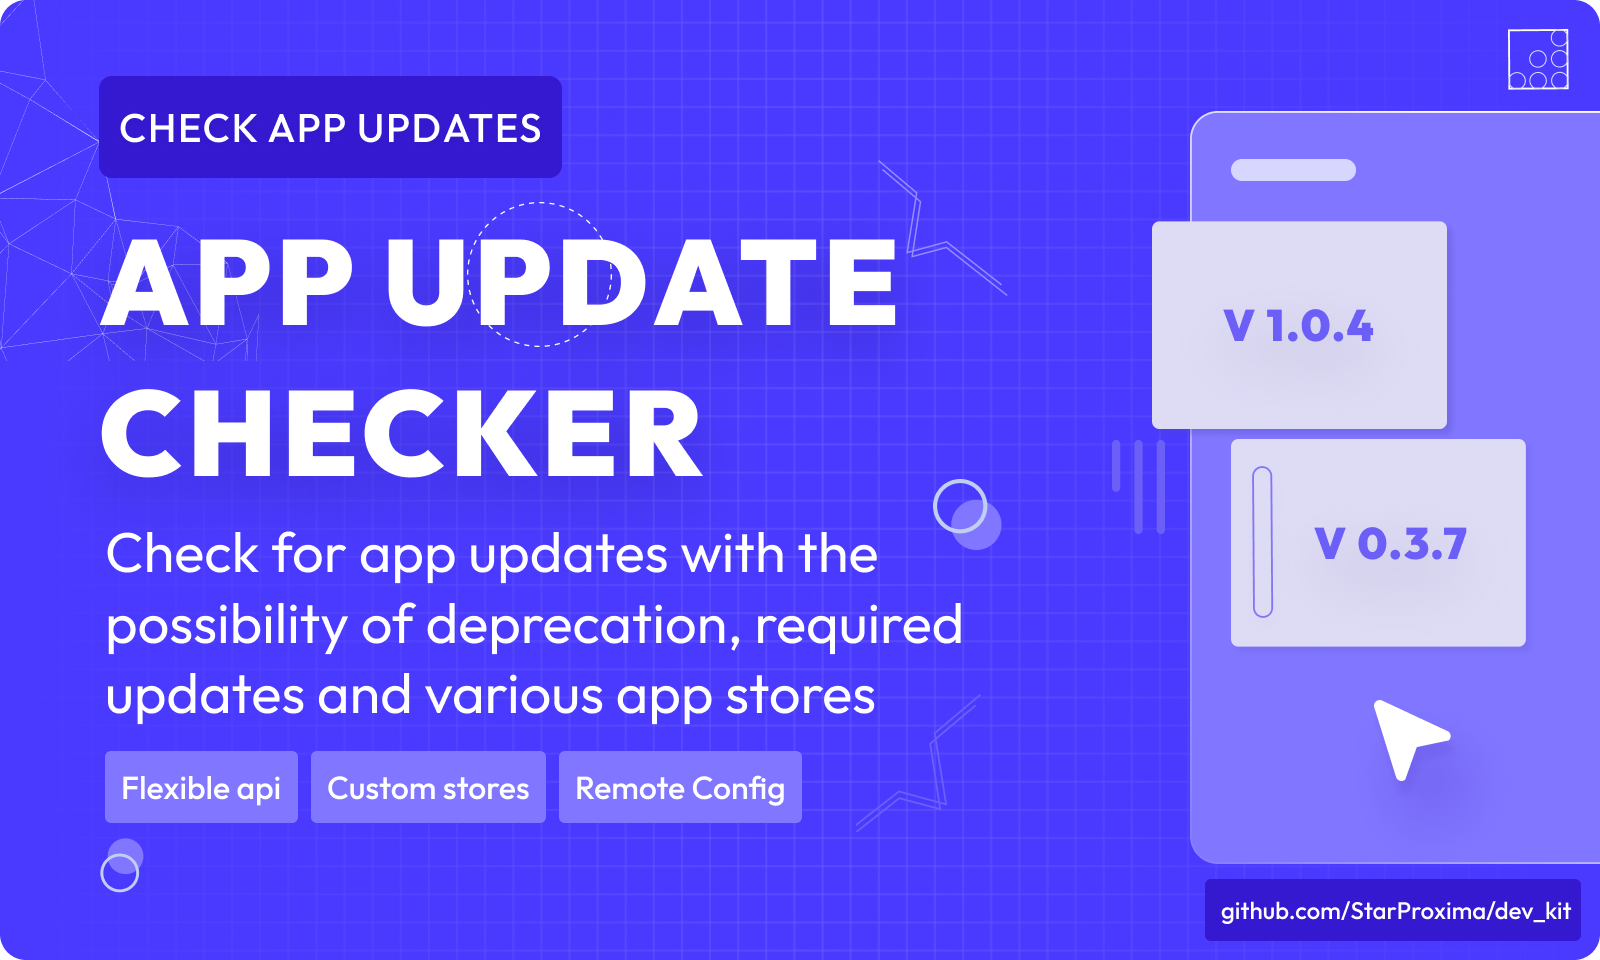
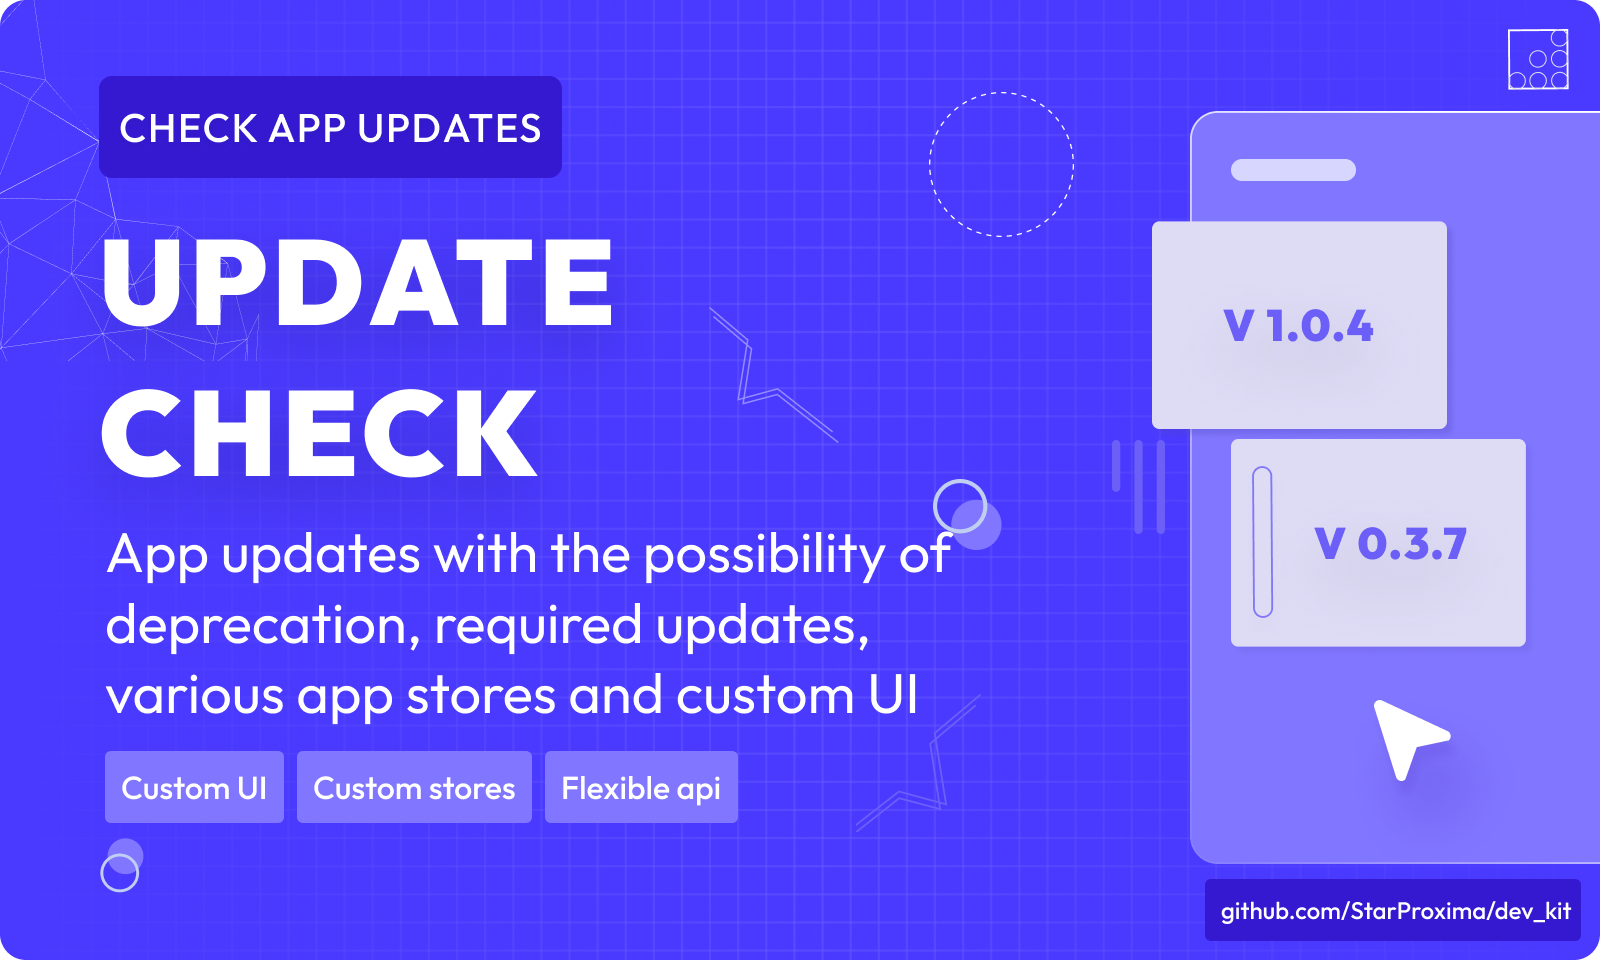
Update Thumbnail

diff --git a/app_update_checker/README.md b/app_update_checker/README.md
@@ -1,6 +1,6 @@
-# App Update Checker
+# Update Check
 
-![Package Thumbnail](https://github.com/user-attachments/assets/bae1226a-0680-41bf-a4e8-5f08ae483122)
+![Package Thumbnail](https://github.com/user-attachments/assets/c6407043-0941-4ed3-aae4-a4323702eb29)
 
 <p align="center">
 <a href="https://pub.dev/packages/app_update_checker"><img alt="Pub Version" src="https://img.shields.io/pub/v/app_update_checker"></a>
@@ -50,7 +50,7 @@ We want to support both methods, but for now we're focusing on the second method
 Here is the full config api structure under consideration:
 ```yaml
 # Description of the api structure
-# https://pub.dev/packages/app_update_checker
+# https://pub.dev/packages/update_check
 
 # Default settings for releases
 release_settings:

diff --git a/app_update_checker/CHANGELOG.md b/app_update_checker/CHANGELOG.md
@@ -1,43 +1,7 @@
-## 0.0.11
-
-* Update README. Change config case to snake_case
-
-## 0.0.10
-
-* Update README with shields
-
-## 0.0.9
-
-* Update README with markdown support
-
-## 0.0.8
-
-* Update README
-
-## 0.0.7
-
-* Update README with api clarification
-
-## 0.0.6
-
-* Update README with a little overview and shorebird support
-
-## 0.0.5
-
-* Update README
-
-## 0.0.4
-
-* Add initial example
-
-## 0.0.3
-
-* Update README
-
 ## 0.0.2
 
-* Update README with initial specification of config api
+* Update README
 
 ## 0.0.1
 
-* Beginning of API design development
+* Update config api design

diff --git a/README.md b/README.md
@@ -4,9 +4,9 @@
 
 These include error handling, validation, asynchronous data management, and delayed list animation.
 
-## App Update Checker
+# Update Check
 
-![Package Thumbnail](https://github.com/user-attachments/assets/bae1226a-0680-41bf-a4e8-5f08ae483122)
+![Package Thumbnail](https://github.com/user-attachments/assets/c6407043-0941-4ed3-aae4-a4323702eb29)
 
 ## Api Wrap
 
